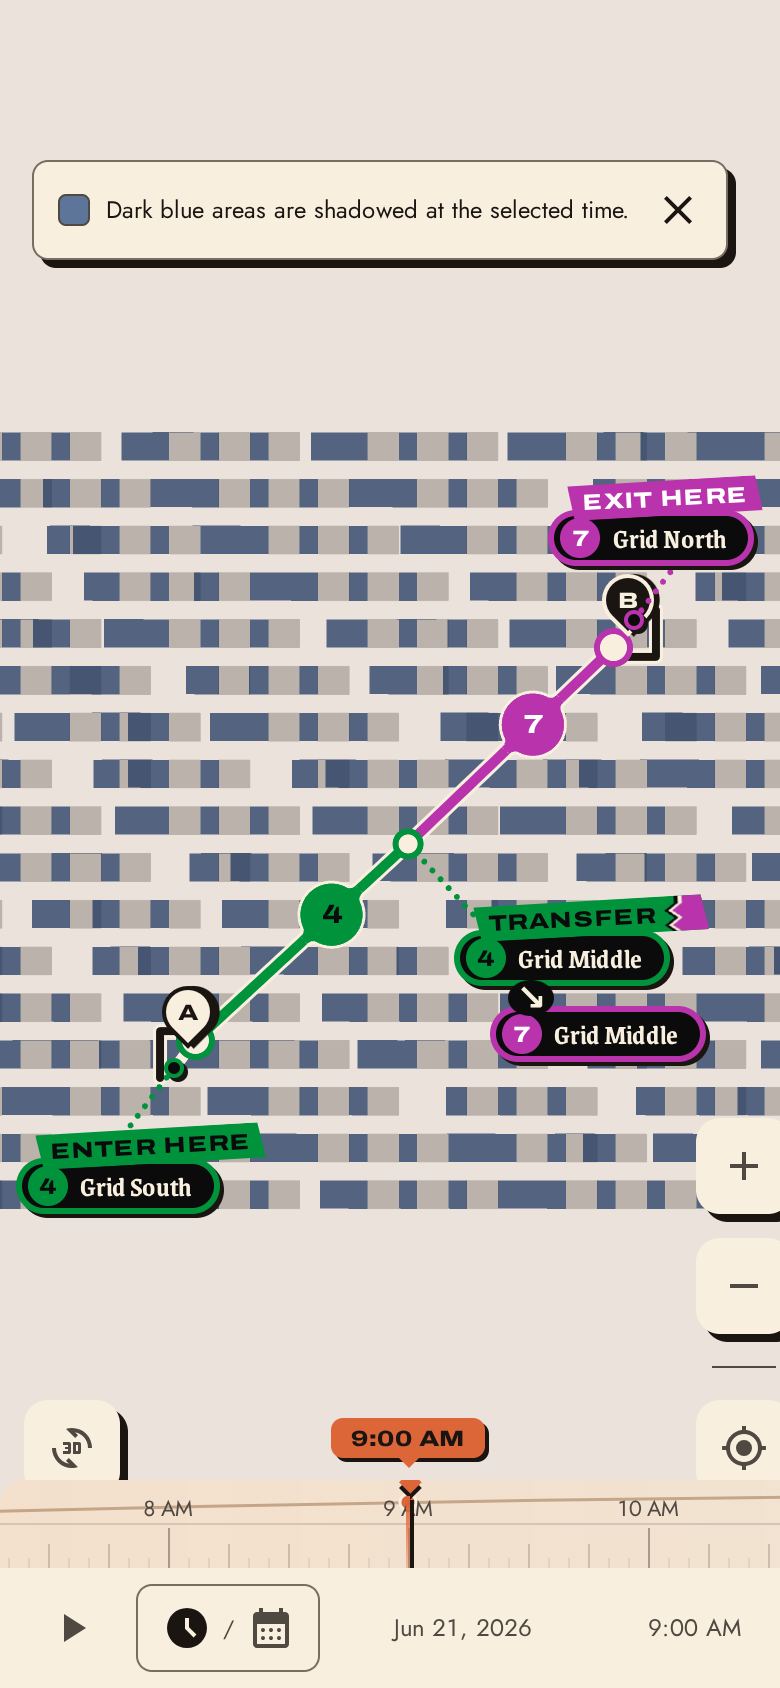
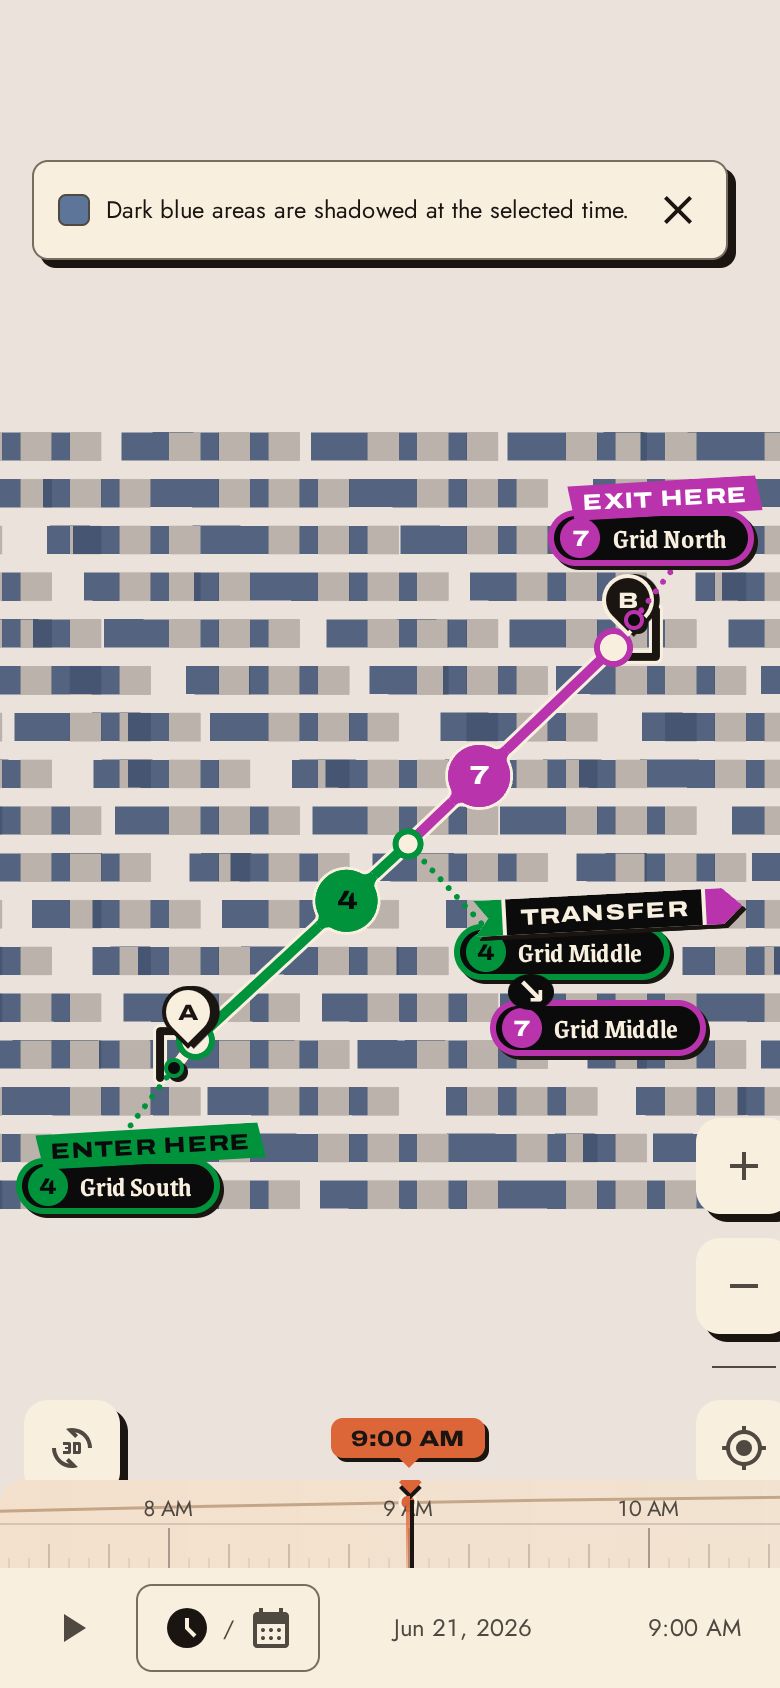
fix(design): make the transfer kicker an arrow sign
A notched tail in the arriving line's colour, Transfer in cream on ink, and a
pointed head in the boarded line's colour, with cream keylines between them.
The change reads by shape, so it holds for same-colour and equal-lightness
pairs with no per-pair ink. Replaces the torn tail and --filter-tear with a
theme-following --filter-map-marker.

Changed region(s): [[0.5846, 0.5237, 0.9538, 0.6469], [0.5538, 0.4005, 0.7385, 0.4929], [0.3692, 0.4929, 0.4923, 0.5853]]

diff --git a/app/components/mapPins.ts b/app/components/mapPins.ts
@@ -276,35 +276,32 @@ export function transferFlagElement(
     transform:translate(${shift(px)}%, ${shift(py)}%);
     display:flex;flex-direction:column;align-items:flex-start;
   `;
+  // The kicker is an arrow sign, so a change reads by its shape rather than by two
+  // line colours: a notched tail in the arriving line's colour, the word in cream on
+  // ink, and a pointed head in the boarded line's. The sign's cream ground shows as
+  // keylines between the parts, separating even two lines of one colour. The shadow
+  // sits on a wrapper because clipping the sign itself would cut it away.
   const plate = document.createElement("span");
   plate.dataset.part = "kicker";
-  plate.textContent = "Transfer";
-  // The word takes the arriving line's plate, inked as its Enter here plate is.
-  const css = lineCssColor(from.color);
-  const ink = lineBulletInk(css);
-  plate.style.cssText = `
-    position:relative;z-index:1;margin:0 0 -3px 10px;padding:2px 26px 2px 7px;white-space:nowrap;
+  plate.style.cssText = "position:relative;z-index:1;margin:0 0 -3px 10px;filter:var(--filter-map-marker);";
+  const sign = document.createElement("span");
+  sign.style.cssText = `
+    display:flex;gap:2px;white-space:nowrap;background:var(--color-line-ink-light);
     font-family:var(--font-label);font-size:11px;font-weight:800;letter-spacing:0.06em;
-    text-transform:uppercase;line-height:1.3;rotate:var(--angle-flag);clip-path:var(--plate-clip);
-    ${ink ? `background:${css};color:var(--color-line-ink-${ink});` : `background:var(--color-line-ink-light);color:var(--color-line-ink-dark);border:2px solid ${css};`}
+    text-transform:uppercase;line-height:1.3;rotate:var(--angle-flag);
+    clip-path:polygon(0 0,calc(100% - 10px) 0,100% 50%,calc(100% - 10px) 100%,0 100%,7px 50%);
   `;
-  // A torn tail of the boarded line's colour. The tear is edged in cream, then a
-  // hard dark shadow, so it reads between lines of equal lightness; the filter sits
-  // on a wrapper because clipping the same element would cut its shadow away.
   const tail = document.createElement("span");
-  tail.dataset.part = "transfer-tail";
-  tail.setAttribute("aria-hidden", "true");
-  tail.style.cssText = `
-    position:absolute;top:0;bottom:0;right:0;width:18px;
-    filter:var(--filter-tear);
-  `;
-  const tailFill = document.createElement("span");
-  tailFill.style.cssText = `
-    display:block;height:100%;background:${lineCssColor(to.color)};
-    clip-path:polygon(5px 0,100% 0,100% 100%,5px 100%,0 80%,5px 60%,0 40%,5px 20%);
-  `;
-  tail.appendChild(tailFill);
-  plate.appendChild(tail);
+  tail.dataset.part = "transfer-from";
+  tail.style.cssText = `width:14px;background:${lineCssColor(from.color)};`;
+  const word = document.createElement("span");
+  word.textContent = "Transfer";
+  word.style.cssText = "padding:2px 7px;background:var(--color-line-ink-dark);color:var(--color-line-ink-light);";
+  const head = document.createElement("span");
+  head.dataset.part = "transfer-to";
+  head.style.cssText = `width:18px;background:${lineCssColor(to.color)};`;
+  sign.append(tail, word, head);
+  plate.appendChild(sign);
   const shields = document.createElement("div");
   shields.dataset.part = "shield";
   shields.style.cssText = "display:flex;flex-direction:column;align-items:flex-start;";

diff --git a/app/components/__tests__/mapPins.test.ts b/app/components/__tests__/mapPins.test.ts
@@ -144,25 +144,18 @@ describe("transferFlagElement", () => {
     expect((flag.querySelector("[data-part='to-shield']") as HTMLElement).style.border).toContain("rgb(185, 51, 173)");
     expect((flag.querySelector("[data-part='to-shield'] [data-part='line']") as HTMLElement).style.color).toBe("var(--color-line-ink-white)");
     const plate = flag.querySelector<HTMLElement>("[data-part='kicker']")!;
-    expect(plate.style.background).toBe("rgb(0, 147, 60)");
-    expect(plate.style.color).toBe("var(--color-line-ink-dark)");
-    const tail = plate.querySelector<HTMLElement>("[data-part='transfer-tail']")!;
-    expect((tail.firstElementChild as HTMLElement).style.background).toBe("rgb(185, 51, 173)");
-    expect(tail.style.filter).toBe("var(--filter-tear)");
+    expect(plate.style.filter).toBe("var(--filter-map-marker)");
+    expect(plate.querySelector<HTMLElement>("[data-part='transfer-from']")!.style.background).toBe("rgb(0, 147, 60)");
+    expect(plate.querySelector<HTMLElement>("[data-part='transfer-to']")!.style.background).toBe("rgb(185, 51, 173)");
     expect(flag.style.pointerEvents).toBe("none");
   });
 
-  it("sets the word in the arriving line's ink and tails in the boarded colour", () => {
-    const flag = transferFlagElement(
-      { line: "N", color: "#FCCC0A", name: "Canal St" },
-      { line: "A", color: "#0039A6", name: "Canal St" },
-      [1, 0],
-    );
-    const plate = flag.querySelector<HTMLElement>("[data-part='kicker']")!;
-    expect(plate.style.background).toBe("rgb(252, 204, 10)");
-    expect(plate.style.color).toBe("var(--color-line-ink-dark)");
-    expect(plate.style.backgroundImage).not.toContain("gradient");
-    const tail = plate.querySelector<HTMLElement>("[data-part='transfer-tail'] > span")!;
-    expect(tail.style.background).toBe("rgb(0, 57, 166)");
+  it("sets the word in cream on ink whatever the line colours", () => {
+    for (const [from, to] of [["#FCCC0A", "#0039A6"], ["#EE352E", "#EE352E"]]) {
+      const flag = transferFlagElement({ line: "N", color: from, name: "Canal St" }, { line: "A", color: to, name: "Canal St" }, [1, 0]);
+      const word = [...flag.querySelectorAll<HTMLElement>("[data-part='kicker'] span")].find((part) => part.textContent === "Transfer" && !part.children.length)!;
+      expect(word.style.background).toBe("var(--color-line-ink-dark)");
+      expect(word.style.color).toBe("var(--color-line-ink-light)");
+    }
   });
 });

diff --git a/app/globals.css b/app/globals.css
@@ -181,6 +181,8 @@
   --shadow-xl: 4px 4px 0 #1b1512;
   --shadow-2xl: 4px 4px 0 #1b1512;
   --shadow-map-marker: 2px 2px 0 var(--color-map-route);
+  /* The same hard shadow for a clipped map marker, which a box-shadow would lose. */
+  --filter-map-marker: drop-shadow(var(--shadow-map-marker));
   --radius: 4px;
   --radius-sm: 4px;
   --radius-md: 6px;
@@ -206,9 +208,6 @@
   --ease-stamp: cubic-bezier(0.2, 0.7, 0.2, 1);
   /* Plates are clipped, so their hard shadow is a zero-blur drop-shadow. */
   --filter-plate: drop-shadow(2px 2px 0 #1b1512);
-  /* A transfer kicker's tear: a cream paper edge, then a hard dark shadow. Theme-fixed
-     like the line inks, so it separates any two line colours on either map. */
-  --filter-tear: drop-shadow(-1.5px 0 0 var(--color-line-ink-light)) drop-shadow(-2px 0 0 var(--color-line-ink-dark));
   --grain-opacity: 0.07;
 
   /* Type: display words, stamped labels/numbers, body, compact keys. */

diff --git a/e2e/smoke.spec.ts b/e2e/smoke.spec.ts
@@ -332,7 +332,7 @@ test("shows both lines and the transfer before and during navigation", async ({ 
   await expect(transferFlag).toHaveCount(1);
   await expect(transferFlag).toHaveAttribute("aria-label", "Transfer: 4, Grid Middle to 7, Grid Middle");
   await expect(transferFlag.locator("[data-part='kicker']")).toHaveText("Transfer");
-  await expect(transferFlag.locator("[data-part='transfer-tail'] > span")).toHaveCSS("background-color", "rgb(185, 51, 173)");
+  await expect(transferFlag.locator("[data-part='transfer-to']")).toHaveCSS("background-color", "rgb(185, 51, 173)");
   await expect(transferFlag.locator("[data-part='line']")).toHaveText(["4", "7"]);
   await expect(transferFlag.locator("[data-part='to-shield'] [data-part='line']")).toHaveCSS("color", "rgb(255, 255, 255)");
 

diff --git a/docs/tracks/TRACK_R.md b/docs/tracks/TRACK_R.md
@@ -30,8 +30,8 @@ inspiration; the public mirror publishes everything here.
   fixed zero. The rail time, wait and exposure remain whole-trip figures; no per-line
   minutes are inferred. Each new boarding now flies a Transfer kicker flag from the
   change stop, with separate line-coloured shields for the arriving and departing stops
-  and an arrow between them; the kicker plate reads on the arriving line's colour and ends
-  in a torn tail of the boarded line's. Same-station changes need no explicit transfer edge. The
+  and an arrow between them; the kicker is an arrow sign, tailed in the arriving line's colour,
+  headed in the boarded line's, with Transfer in cream on ink. Same-station changes need no explicit transfer edge. The
   flag is a pointer-free DOM overlay and clamps inside the map. The longer itinerary keeps
   Start Navigating at the phone sheet foot and resets the sheet to its top on phase changes.
   Before/after phone shots in both themes are in `docs/design/shots/transit-transfer/`.
@@ -132,7 +132,7 @@ inspiration; the public mirror publishes everything here.
 - **Next action:** independent reviews of #158 when agent quota permits, then owner review and R6 — timeline and sheet (#138). #126 keeps its SettingsPanel/SaveRouteModal half.
 - **Last verified (#157):** 2026-10-01 on Node 24; lint (0 errors, 81 baseline warnings),
   typecheck, 1,806 unit tests, build, design:check and e2e 18/18. Day and night phone shots
-  show filled 7 bullets, the change station, and the torn-tail Transfer flag on the map. The supplied
+  show filled 7 bullets, the change station, and the arrow-sign Transfer flag on the map. The supplied
   live route could not be checked locally because its street-data request returned 503;
   a real-phone feel check is outstanding.
 - **Last verified (#155):** 2026-09-30 on Node 24; lint (0 errors, 81 baseline warnings),

diff --git a/docs/design/language.md b/docs/design/language.md
@@ -24,7 +24,7 @@ These are source values; R1 registers role names, not generic color utilities. S
 
 For actual transit line bullets, the reference quartets are blue `#60CDE3 / #10130D / #0C1B1D / #1A3237`, green `#97DA79 / #0E1A08 / #101B0A / #2C3D24`, and yellow `#FFE14D / #0B0B0B / #1F1C0C / #3C361A` (accent / badge ink / ground / plate). R1 may adapt the ground and plate to the day theme while preserving the line's identity and contrast. A colored line alone must never be the only distinction; show its identifier.
 
-Published line colours keep a filled identifier when dark, cream, or white ink reaches 4.5:1. White keeps the 7's purple and J/Z brown filled where cream misses. A line colour that still has no readable ink uses a ringed identifier. A transfer kicker reads Transfer on the arriving line's colour in that line's ink, then ends in a torn tail of the boarded line's colour; the tear is edged in cream with a hard dark shadow so the change reads even between lines of equal lightness.
+Published line colours keep a filled identifier when dark, cream, or white ink reaches 4.5:1. White keeps the 7's purple and J/Z brown filled where cream misses. A line colour that still has no readable ink uses a ringed identifier. A transfer kicker is an arrow sign: a notched tail in the arriving line's colour, Transfer in cream on ink, and a pointed head in the boarded line's colour, with cream keylines between the parts. The change reads by the arrow's shape, so it holds between lines of equal lightness or one colour, and the word never takes a line's ink.
 
 ### Contrast and outdoor reading
 
